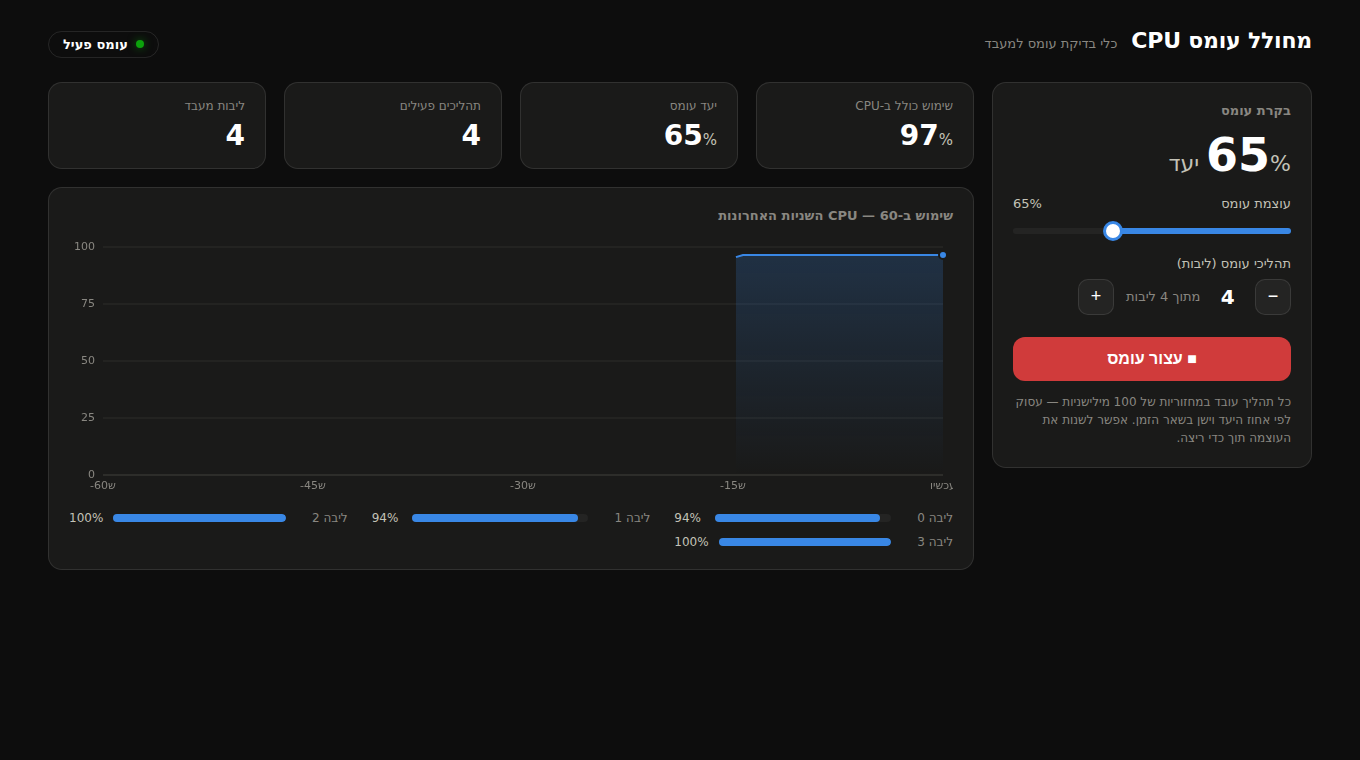
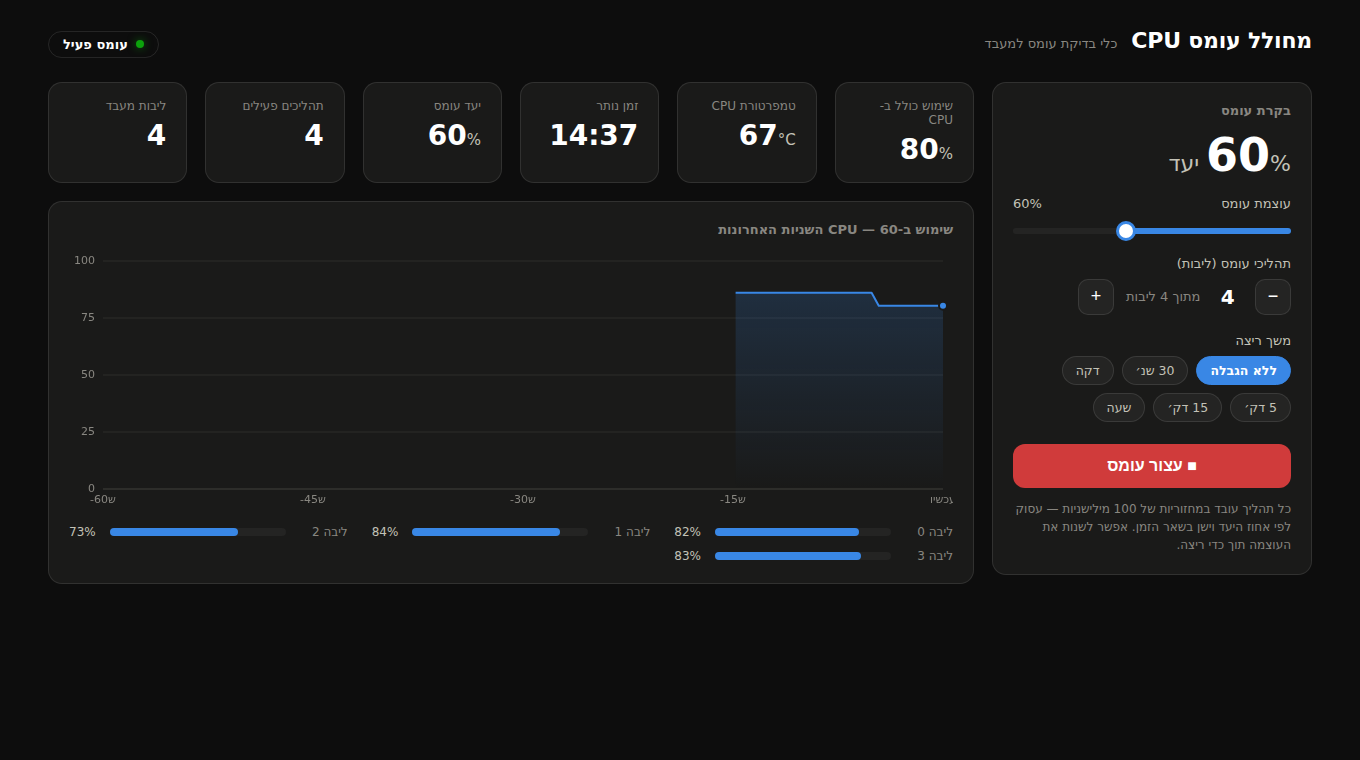
Add run duration with auto-stop and CPU temperature display
- Duration presets (30s to 1h or unlimited) in the GUI; the load stops
  itself when time is up, with a live countdown tile. The timer can be
  extended or shortened while running, via GUI chip or API.
- CPU temperature tile, read from /sys/class/thermal and hwmon on
  Linux with a psutil fallback; turns amber at 70C and red at 85C,
  shows a dash when no sensor exists.
- /api/stats now returns temp and remaining; /api/control accepts
  duration (seconds, 0 = unlimited).

Claude-Session: https://claude.ai/code/session_01XEwZKa1cMo7zE76kATrkZJ

diff --git a/cpu_load.py b/cpu_load.py
@@ -10,6 +10,7 @@ Usage:
 """
 
 import argparse
+import glob
 import json
 import multiprocessing as mp
 import os
@@ -46,6 +47,8 @@ class LoadEngine:
         self._stop = mp.Event()
         self._procs = []
         self._lock = threading.Lock()
+        self._until = None
+        self._timer = None
 
     @property
     def running(self):
@@ -59,10 +62,17 @@ class LoadEngine:
     def target(self):
         return self._target.value
 
+    @property
+    def remaining(self):
+        """Seconds until auto-stop, or None if unlimited / not running."""
+        if self._until is None or not self._procs:
+            return None
+        return max(0.0, self._until - time.time())
+
     def set_target(self, pct):
         self._target.value = min(100.0, max(0.0, float(pct)))
 
-    def start(self, workers):
+    def start(self, workers, duration=0):
         with self._lock:
             self._stop_locked()
             workers = min(self.cpu_count * 2, max(1, int(workers)))
@@ -71,12 +81,36 @@ class LoadEngine:
                 p = mp.Process(target=_worker, args=(self._target, self._stop), daemon=True)
                 p.start()
                 self._procs.append(p)
+            self._set_duration_locked(duration)
+
+    def set_duration(self, duration):
+        with self._lock:
+            self._set_duration_locked(duration)
+
+    def _set_duration_locked(self, duration):
+        if self._timer:
+            self._timer.cancel()
+            self._timer = None
+        self._until = None
+        try:
+            duration = float(duration or 0)
+        except (TypeError, ValueError):
+            duration = 0
+        if self._procs and duration > 0:
+            self._until = time.time() + duration
+            self._timer = threading.Timer(duration, self.stop)
+            self._timer.daemon = True
+            self._timer.start()
 
     def stop(self):
         with self._lock:
             self._stop_locked()
 
     def _stop_locked(self):
+        if self._timer:
+            self._timer.cancel()
+            self._timer = None
+        self._until = None
         if not self._procs:
             return
         self._stop.set()
@@ -89,6 +123,47 @@ class LoadEngine:
 
 # ---------------------------------------------------------------- cpu sampler
 
+_CPU_SENSOR_HINTS = ("pkg", "cpu", "core", "x86", "soc", "k10temp", "zenpower", "acpitz")
+
+
+def read_cpu_temp(sys_root="/sys", psutil_mod=None):
+    """CPU temperature in °C, or None if no sensor is available."""
+    candidates = []  # (is_cpu_sensor, temp)
+    for zone in glob.glob(sys_root + "/class/thermal/thermal_zone*"):
+        try:
+            with open(zone + "/temp") as f:
+                t = int(f.read().strip()) / 1000.0
+            with open(zone + "/type") as f:
+                kind = f.read().strip().lower()
+        except (OSError, ValueError):
+            continue
+        if 0 < t < 150:
+            candidates.append((any(h in kind for h in _CPU_SENSOR_HINTS), t))
+    for path in glob.glob(sys_root + "/class/hwmon/hwmon*/temp*_input"):
+        try:
+            with open(path) as f:
+                t = int(f.read().strip()) / 1000.0
+            with open(os.path.dirname(path) + "/name") as f:
+                kind = f.read().strip().lower()
+        except (OSError, ValueError):
+            continue
+        if 0 < t < 150:
+            candidates.append((any(h in kind for h in _CPU_SENSOR_HINTS), t))
+    if psutil_mod and not candidates:
+        try:
+            for kind, entries in (psutil_mod.sensors_temperatures() or {}).items():
+                for e in entries:
+                    if e.current and 0 < e.current < 150:
+                        candidates.append(
+                            (any(h in kind.lower() for h in _CPU_SENSOR_HINTS), e.current))
+        except (AttributeError, OSError):
+            pass
+    if not candidates:
+        return None
+    cpu_only = [t for is_cpu, t in candidates if is_cpu]
+    return max(cpu_only) if cpu_only else max(t for _, t in candidates)
+
+
 class CpuSampler:
     """Samples real CPU usage. Uses /proc/stat on Linux, psutil elsewhere
     if installed; otherwise reports no measurements (GUI shows target only)."""
@@ -97,14 +172,14 @@ class CpuSampler:
         self.interval = interval
         self.total = None          # overall usage %, or None if unavailable
         self.cores = []            # per-core usage %
+        self.temp = None           # CPU temperature °C, or None if no sensor
         self._prev = None
         self._psutil = None
-        if not os.path.exists("/proc/stat"):
-            try:
-                import psutil
-                self._psutil = psutil
-            except ImportError:
-                pass
+        try:
+            import psutil
+            self._psutil = psutil
+        except ImportError:
+            pass
         t = threading.Thread(target=self._run, daemon=True)
         t.start()
 
@@ -114,14 +189,17 @@ class CpuSampler:
                 self._sample()
             except Exception:
                 self.total, self.cores = None, []
+            try:
+                self.temp = read_cpu_temp(psutil_mod=self._psutil)
+            except Exception:
+                self.temp = None
             time.sleep(self.interval)
 
     def _sample(self):
-        if self._psutil:
-            self.cores = self._psutil.cpu_percent(percpu=True)
-            self.total = sum(self.cores) / max(1, len(self.cores))
-            return
         if not os.path.exists("/proc/stat"):
+            if self._psutil:
+                self.cores = self._psutil.cpu_percent(percpu=True)
+                self.total = sum(self.cores) / max(1, len(self.cores))
             return
         with open("/proc/stat") as f:
             lines = [l.split() for l in f if l.startswith("cpu")]
@@ -169,10 +247,12 @@ def make_handler(engine, sampler):
                 self._json({
                     "cpu": sampler.total,
                     "cores": sampler.cores,
+                    "temp": sampler.temp,
                     "running": engine.running,
                     "target": engine.target,
                     "workers": engine.workers,
                     "cpuCount": engine.cpu_count,
+                    "remaining": engine.remaining,
                 })
             else:
                 self._json({"error": "not found"}, 404)
@@ -191,11 +271,15 @@ def make_handler(engine, sampler):
                 engine.set_target(req["target"])
             action = req.get("action")
             if action == "start":
-                engine.start(req.get("workers", engine.cpu_count))
+                engine.start(req.get("workers", engine.cpu_count),
+                             req.get("duration", 0))
             elif action == "stop":
                 engine.stop()
+            elif "duration" in req:
+                engine.set_duration(req["duration"])
             self._json({"ok": True, "running": engine.running,
-                        "workers": engine.workers, "target": engine.target})
+                        "workers": engine.workers, "target": engine.target,
+                        "remaining": engine.remaining})
 
     return Handler
 
@@ -277,6 +361,14 @@ PAGE = r"""<!doctype html>
   .stepper .val { font-size: 20px; font-weight: 650; min-width: 2.2ch; text-align: center;
                   font-variant-numeric: tabular-nums; }
   .stepper .of { color: var(--muted); font-size: 13px; }
+  .chips { display: flex; flex-wrap: wrap; gap: 8px; }
+  .chip {
+    padding: 6px 13px; border-radius: 999px; border: 1px solid var(--border);
+    background: var(--surface-2); color: var(--ink-2); font-size: 12.5px;
+    font-family: inherit; cursor: pointer; transition: background .15s;
+  }
+  .chip:hover { background: #2e2e2c; }
+  .chip.sel { background: var(--series); border-color: var(--series); color: #fff; font-weight: 600; }
   .go {
     width: 100%; margin-top: 22px; padding: 13px; font-size: 16px; font-weight: 700;
     border: none; border-radius: 12px; cursor: pointer;
@@ -292,8 +384,10 @@ PAGE = r"""<!doctype html>
   .tile { background: var(--surface); border: 1px solid var(--border);
           border-radius: 14px; padding: 16px 20px; }
   .tile .k { font-size: 12px; color: var(--muted); margin-bottom: 6px; }
-  .tile .v { font-size: 28px; font-weight: 700; }
+  .tile .v { font-size: 28px; font-weight: 700; font-variant-numeric: tabular-nums; }
   .tile .v small { font-size: 15px; color: var(--ink-2); font-weight: 500; }
+  .tile .v.warm { color: #fab219; }
+  .tile .v.hot { color: #d03b3b; }
 
   /* chart */
   .chart-wrap { position: relative; direction: ltr; }
@@ -340,6 +434,8 @@ PAGE = r"""<!doctype html>
       <span class="of" id="wOf">מתוך 1 ליבות</span>
       <button id="wPlus" aria-label="יותר">+</button>
     </div>
+    <div class="ctl-label"><span>משך ריצה</span></div>
+    <div class="chips" id="durChips"></div>
     <button class="go" id="go">▶ התחל עומס</button>
     <p class="hint">כל תהליך עובד במחזוריות של 100 מילישניות — עסוק לפי אחוז היעד וישן בשאר הזמן. אפשר לשנות את העוצמה תוך כדי ריצה.</p>
   </div>
@@ -347,6 +443,8 @@ PAGE = r"""<!doctype html>
   <div>
     <div class="tiles">
       <div class="tile"><div class="k">שימוש כולל ב-CPU</div><div class="v" id="tCpu">—</div></div>
+      <div class="tile"><div class="k">טמפרטורת CPU</div><div class="v" id="tTemp">—</div></div>
+      <div class="tile"><div class="k">זמן נותר</div><div class="v" id="tLeft">—</div></div>
       <div class="tile"><div class="k">יעד עומס</div><div class="v" id="tTarget">50<small>%</small></div></div>
       <div class="tile"><div class="k">תהליכים פעילים</div><div class="v" id="tWorkers">0</div></div>
       <div class="tile"><div class="k">ליבות מעבד</div><div class="v" id="tCores">—</div></div>
@@ -370,6 +468,30 @@ const MAXPTS = Math.round(WINDOW_S * 1000 / POLL_MS);
 let history = [];            // {t: ms, v: pct}
 let state = { running:false, cpuCount:1, workers:0 };
 let wantWorkers = null;
+let wantDuration = 0;        // seconds, 0 = unlimited
+let endsAt = null;           // ms timestamp of auto-stop, null = unlimited/idle
+
+// ---- duration chips
+const DURATIONS = [
+  [0, "ללא הגבלה"], [30, "30 שנ׳"], [60, "דקה"],
+  [300, "5 דק׳"], [900, "15 דק׳"], [3600, "שעה"],
+];
+$("durChips").innerHTML = DURATIONS.map(([v, label]) =>
+  '<button class="chip' + (v === 0 ? ' sel' : '') + '" data-v="' + v + '">' + label + '</button>').join("");
+$("durChips").addEventListener("click", e => {
+  const chip = e.target.closest(".chip");
+  if (!chip) return;
+  wantDuration = +chip.dataset.v;
+  for (const c of $("durChips").children) c.classList.toggle("sel", c === chip);
+  if (state.running) post({ duration: wantDuration });
+});
+
+function fmtLeft(sec) {
+  sec = Math.max(0, Math.round(sec));
+  const h = Math.floor(sec / 3600), m = Math.floor(sec % 3600 / 60), s = sec % 60;
+  const mm = String(m).padStart(2, "0"), ss = String(s).padStart(2, "0");
+  return h ? h + ":" + mm + ":" + ss : m + ":" + ss;
+}
 
 // ---- controls
 const slider = $("target");
@@ -399,7 +521,8 @@ function bumpWorkers(d) {
 
 $("go").onclick = () => {
   if (state.running) post({ action: "stop" });
-  else post({ action: "start", workers: wantWorkers ?? state.cpuCount, target: +slider.value });
+  else post({ action: "start", workers: wantWorkers ?? state.cpuCount,
+              target: +slider.value, duration: wantDuration });
 };
 
 async function post(body) {
@@ -436,6 +559,15 @@ function render(s, fromPost) {
   $("tCores").textContent = state.cpuCount;
   if (s.cpu !== undefined)
     $("tCpu").innerHTML = s.cpu == null ? "—" : s.cpu.toFixed(0) + "<small>%</small>";
+  if (s.temp !== undefined) {
+    const el = $("tTemp");
+    el.innerHTML = s.temp == null ? "—" : s.temp.toFixed(0) + "<small>°C</small>";
+    el.classList.toggle("warm", s.temp != null && s.temp >= 70 && s.temp < 85);
+    el.classList.toggle("hot", s.temp != null && s.temp >= 85);
+  }
+  if (s.remaining !== undefined)
+    endsAt = s.remaining == null ? null : Date.now() + s.remaining * 1000;
+  paintCountdown();
   const pill = $("pill");
   pill.classList.toggle("on", state.running);
   $("pillText").textContent = state.running ? "עומס פעיל" : "מנוחה";
@@ -446,6 +578,12 @@ function render(s, fromPost) {
     slider.value = Math.round(s.target); paintSlider();
   }
 }
+
+function paintCountdown() {
+  $("tLeft").textContent = !state.running ? "—"
+    : endsAt == null ? "∞" : fmtLeft((endsAt - Date.now()) / 1000);
+}
+setInterval(paintCountdown, 250);
 
 // ---- line chart (canvas, LTR)
 const cv = $("chart"), ctx = cv.getContext("2d");

diff --git a/README.md b/README.md
@@ -23,12 +23,16 @@ python3 cpu_load.py --port 9000 --no-browser
 ## יכולות · Features
 
 - **עוצמת עומס מדויקת (0–100%)** — כל תהליך עובד במחזוריות של 100ms: עסוק לפי אחוז היעד וישן בשאר הזמן. אפשר לשנות את העוצמה בזמן אמת, בלי לעצור.
+- **משך ריצה** — בוחרים כמה זמן העומס ירוץ (30 שניות עד שעה, או ללא הגבלה); העומס נעצר אוטומטית בסוף, עם ספירה לאחור חיה. אפשר להאריך/לקצר תוך כדי ריצה.
+- **טמפרטורת מעבד** — נקראת מ-`/sys/class/thermal` ומ-hwmon בלינוקס (או `psutil` אם מותקן); התצוגה מצהיבה מ-70°C ומאדימה מ-85°C.
 - **שליטה במספר הליבות** — בוחרים כמה תהליכי עומס להריץ (עד פי 2 ממספר הליבות).
 - **גרף חי** — שימוש ה-CPU ב-60 השניות האחרונות, עם סמן ו-tooltip במעבר עכבר.
 - **פסי עומס לכל ליבה** בנפרד, מתעדכנים כל חצי שנייה.
 - **ללא התקנות** — ספריית התקן של Python בלבד; מדידת CPU דרך `/proc/stat` בלינוקס (או `psutil` אם מותקן, ב-Windows/macOS).
 
 * Precise duty-cycle load (0–100%), adjustable live while running
+* Run-duration presets (30s–1h or unlimited) with auto-stop and a live countdown
+* CPU temperature readout via `/sys/class/thermal` / hwmon (or `psutil`), color-coded from 70°C/85°C
 * Per-core worker control, live 60s usage chart with hover tooltip, per-core bars
 * No dependencies; CPU sampling via `/proc/stat` on Linux (falls back to `psutil` if installed on Windows/macOS)
 
@@ -37,10 +41,13 @@ python3 cpu_load.py --port 9000 --no-browser
 הממשק הגרפי משתמש ב-API פשוט שאפשר גם לתסרט:
 
 ```bash
-curl -X POST localhost:8321/api/control -d '{"action":"start","workers":4,"target":70}'
+curl -X POST localhost:8321/api/control -d '{"action":"start","workers":4,"target":70,"duration":300}'
 curl -X POST localhost:8321/api/control -d '{"target":30}'      # change intensity live
+curl -X POST localhost:8321/api/control -d '{"duration":900}'   # extend/shorten the timer live
 curl -X POST localhost:8321/api/control -d '{"action":"stop"}'
-curl localhost:8321/api/stats
+curl localhost:8321/api/stats   # cpu, per-core, temp (°C), remaining seconds
 ```
+
+`duration` בשניות; `0` או השמטה = ללא הגבלה. `duration` is in seconds; `0` or omitted = unlimited.
 
 > ⚠ הכלי נועד לבדיקות עומס על המחשב שלכם (בדיקת קירור, throttling, התנהגות תחת עומס). עומס ממושך של 100% מחמם את המעבד — השתמשו בהיגיון.
